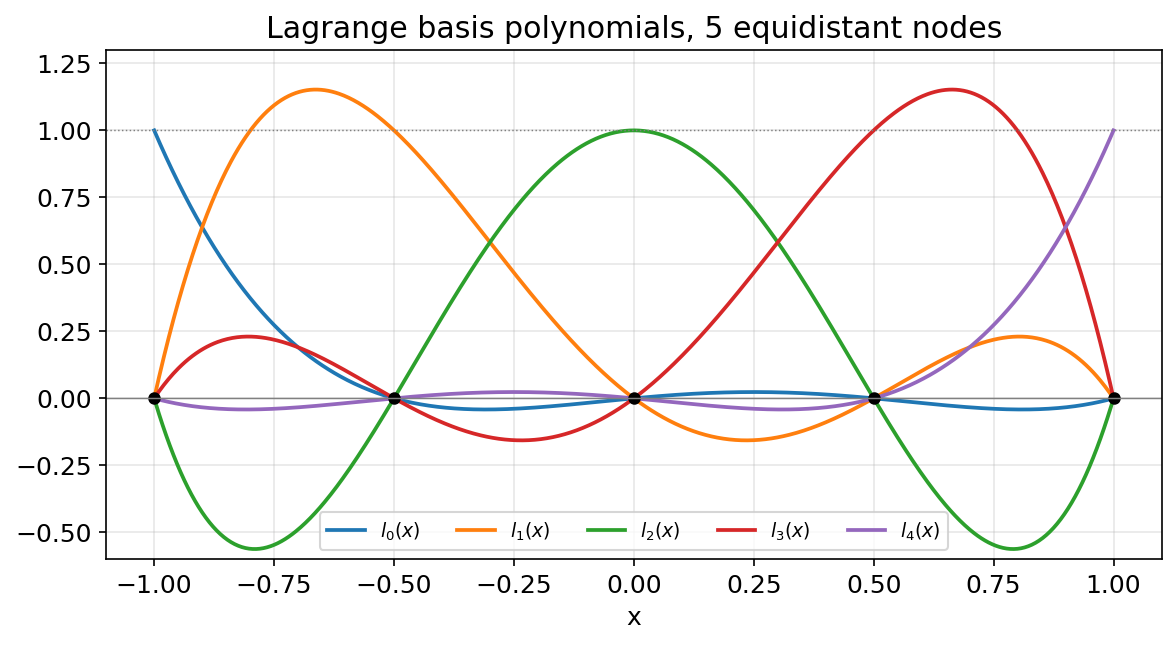
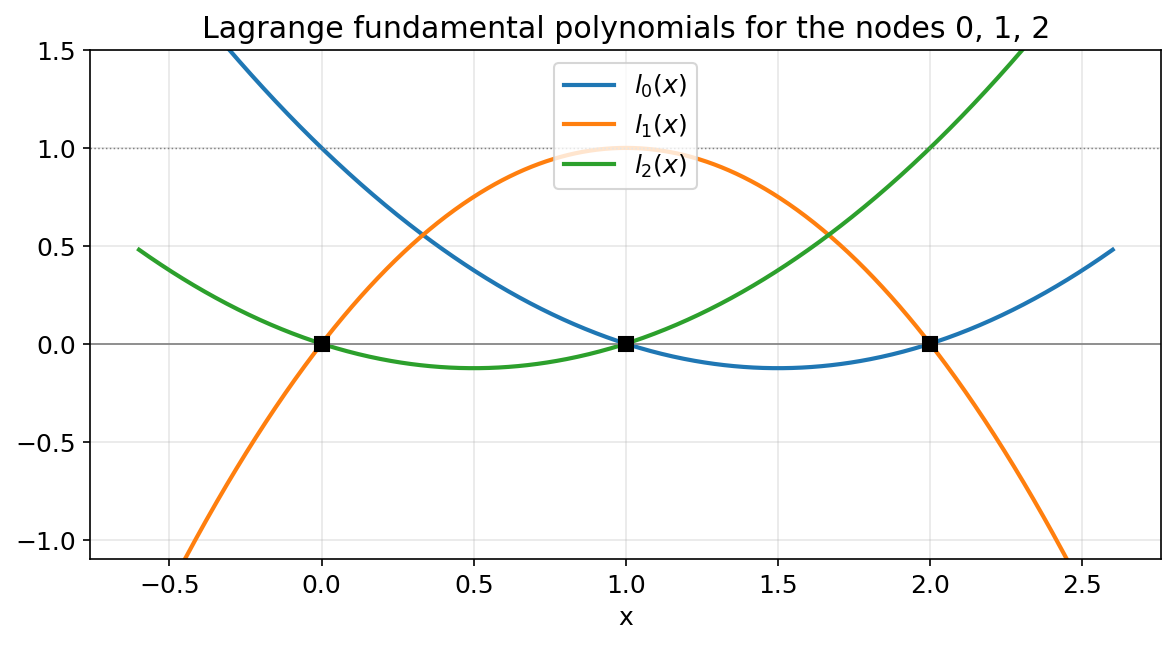
FinalFix

diff --git a/main.tex b/main.tex
@@ -170,7 +170,7 @@ A first, naive approach is to look for the polynomial directly in the monomial b
     =
     \begin{pmatrix} y_0 \\ y_1 \\ \vdots \\ y_n \end{pmatrix},
 \end{equation}
-whose coefficient matrix is the \emph{Vandermonde matrix} \cite{runge}. Its determinant equals $\prod_{0 \le i < j \le n}(x_j - x_i)$, which is nonzero precisely because the nodes are distinct; the system therefore has a unique solution. This already establishes that an interpolating polynomial of degree at most $n$ exists and is unique. In practice, however, the Vandermonde system is notoriously ill-conditioned, and solving it costs $\mathcal{O}(n^3)$ operations. The Lagrange and Newton forms presented in this chapter avoid building this matrix altogether, which is why they are preferred. The same existence and uniqueness result is restated, in the form most convenient for what follows, below.
+whose coefficient matrix is the \emph{Vandermonde matrix} \cite{heath}. Its determinant equals $\prod_{0 \le i < j \le n}(x_j - x_i)$, which is nonzero precisely because the nodes are distinct; the system therefore has a unique solution. This already establishes that an interpolating polynomial of degree at most $n$ exists and is unique. In practice, however, the Vandermonde system is notoriously ill-conditioned\cite{barwolff}, and solving it costs $\mathcal{O}(n^3)$ operations. The Lagrange and Newton forms presented in this chapter avoid building this matrix altogether, which is why they are preferred. The same existence and uniqueness result is restated, in the form most convenient for what follows, below.
 
 \begin{theorem}[Existence and Uniqueness]\label{thm:exist}
 There is a unique polynomial $L_n f$ of degree at most $n$ satisfying the interpolation conditions \eqref{eq:interp-cond}. This polynomial can be written as
@@ -247,7 +247,7 @@ It is natural to expect that taking more and more interpolation nodes will drive
 Let $f:[a,b]\to\mathbb{R}$ be continuous. Then for every $\varepsilon > 0$ there exists a polynomial $p$ such that $\displaystyle\max_{x\in[a,b]} |f(x) - p(x)| < \varepsilon$.
 \end{theorem}
 
-Weierstrass's theorem guarantees that \emph{some} polynomial approximates $f$ as closely as desired, but it does not say how to find it, and in particular it does \emph{not} say that the interpolant at a given set of nodes will do so. The next result, due to Faber and Bernstein, shows that no single choice of nodes works for every continuous function.
+Weierstrass's theorem guarantees that \emph{some} polynomial approximates $f$ as closely as desired, but it does not say how to find it, and in particular it does \emph{not} say that the interpolant at a given set of nodes will do so. The next result, due to Faber and Bernstein, shows that no single choice of nodes works for every continuous function.\cite{schatzman}
 
 \begin{theorem}[Faber]\label{thm:faber}
 For every prescribed triangular array of interpolation nodes in $[a,b]$, there exists a continuous function $f \in C[a,b]$ whose sequence of interpolating polynomials does not converge uniformly to $f$ on $[a,b]$ \cite{micula4}.
@@ -323,7 +323,7 @@ While the Lagrange form elegantly proves the existence and uniqueness of the int
 
 \subsection{Divided Differences}
 
-Newton's interpolation polynomial relies on the concept of \emph{divided differences}. Given $n+1$ pairs $(x_k, y_k)$ for $k = 0, \dots, n$, the divided differences are defined recursively as follows \cite{runge, micula5}:
+Newton's interpolation polynomial relies on the concept of \emph{divided differences}. Given $n+1$ pairs $(x_k, y_k)$ for $k = 0, \dots, n$, the divided differences are defined recursively as follows \cite{isaacson, micula5}:
 \begin{itemize}
     \item \textbf{Zeroth order:} $f[x_k] = f(x_k) = y_k$;
     \item \textbf{First order:} $\displaystyle f[x_k, x_{k+1}] = \frac{f[x_{k+1}] - f[x_k]}{x_{k+1} - x_k}$;
@@ -768,7 +768,7 @@ To show that the advantage of Chebyshev nodes is not specific to the Runge funct
         $31$ & $30$ & $3.1578 \times 10^{4}$  & $1.9272 \times 10^{-2}$ \\
         \bottomrule
     \end{tabular}
-    \caption{Maximum absolute error for $f(x)=|x|$ on $[-1,1]$, computed with Newton's divided differences. The equidistant error grows erratically and without bound (Bernstein's divergence), while the Chebyshev error decreases steadily.}
+    \caption{Maximum absolute error for $f(x)=|x|$ on $[-1,1]$, computed with Newton's divided differences. The equidistant error grows erratically and without bound (Bernstein's divergence), while the Chebyshev error decreases overall (with mild even/odd oscillations).}
     \label{tab:bernstein}
 \end{table}
 
@@ -788,7 +788,7 @@ Regarding efficiency, both algorithms split naturally into a setup phase and an 
 
 This thesis examined polynomial interpolation from both a theoretical and a computational perspective. Starting from the classical Lagrange form and its efficient barycentric reformulation, we then presented Newton's divided differences and the forward/backward finite-difference formulas, illustrating every method with worked examples computed by hand. We saw that all of these constructions produce, for a given set of nodes, the same unique interpolating polynomial; they differ only in algebraic form and in computational convenience.
 
-The central theme of the work was the contrast between two choices of nodes. Runge's phenomenon shows that increasing the degree of the interpolant on equidistant nodes can make the approximation arbitrarily worse, because the nodal polynomial $u(x)$ in the error term grows exponentially near the endpoints. Chebyshev nodes resolve this by minimizing $\max|u(x)|$ through their minimax property, restoring convergence. The MATLAB experiments of Chapter 6, carried out exclusively with Newton's divided differences, confirmed this quantitatively: for the Runge function the equidistant error grew beyond $10^3$ while the Chebyshev error fell below $10^{-3}$ over the same range of node counts.
+The central theme of the work was the contrast between two choices of nodes. Runge's phenomenon shows that increasing the degree of the interpolant on equidistant nodes can make the approximation arbitrarily worse, because the nodal polynomial $u(x)$ in the error term grows exponentially near the endpoints. Chebyshev nodes resolve this by minimizing $\max|u(x)|$ through their minimax property, restoring convergence. The MATLAB experiments of Chapter 6, carried out exclusively with Newton's divided differences, confirmed this quantitatively: for the Runge function the equidistant error grew beyond $10^3$ while the Chebyshev error fell to the order of $10^{-3}$ over the same range of node counts.
 
 A natural continuation of this work would be to study other remedies for the instability of high-degree interpolation, such as piecewise polynomial (spline) interpolation, and to extend the comparison to other test functions and to the conditioning of the barycentric weights.
 